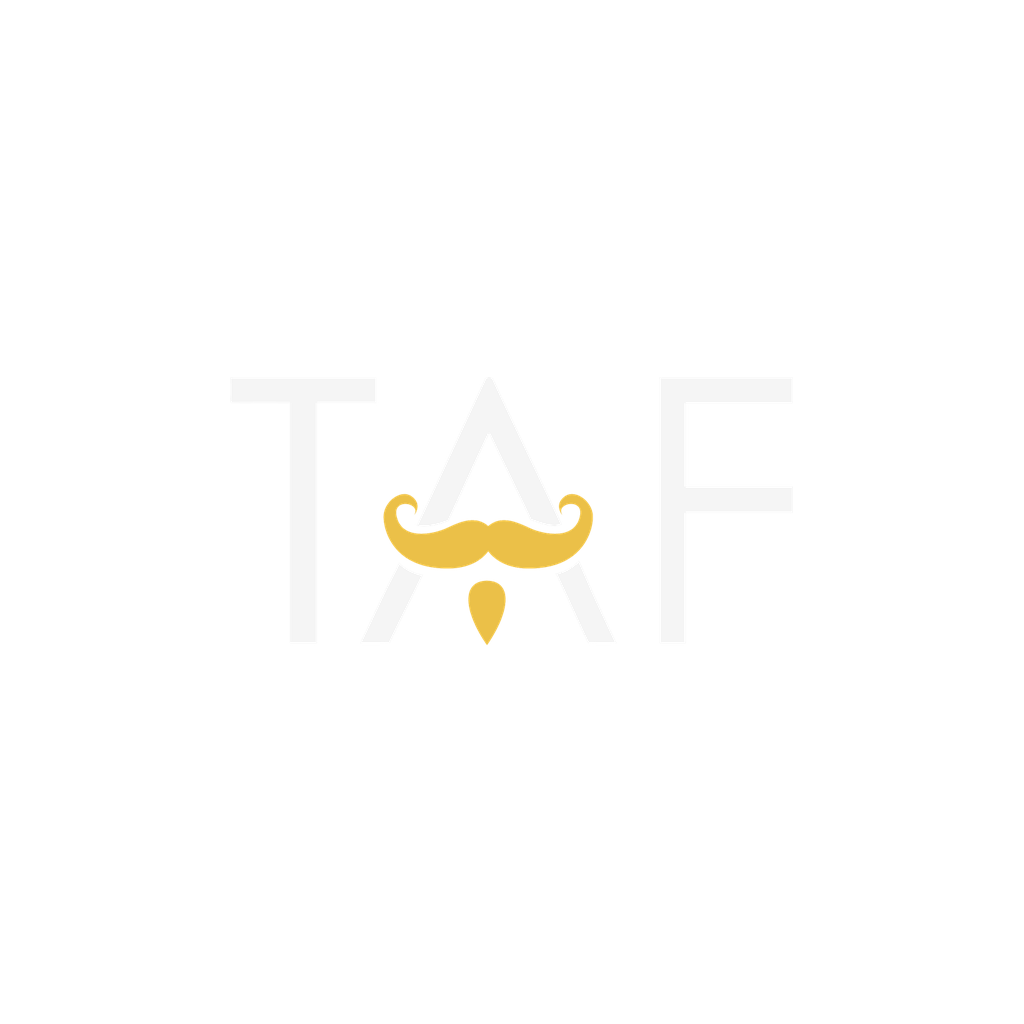
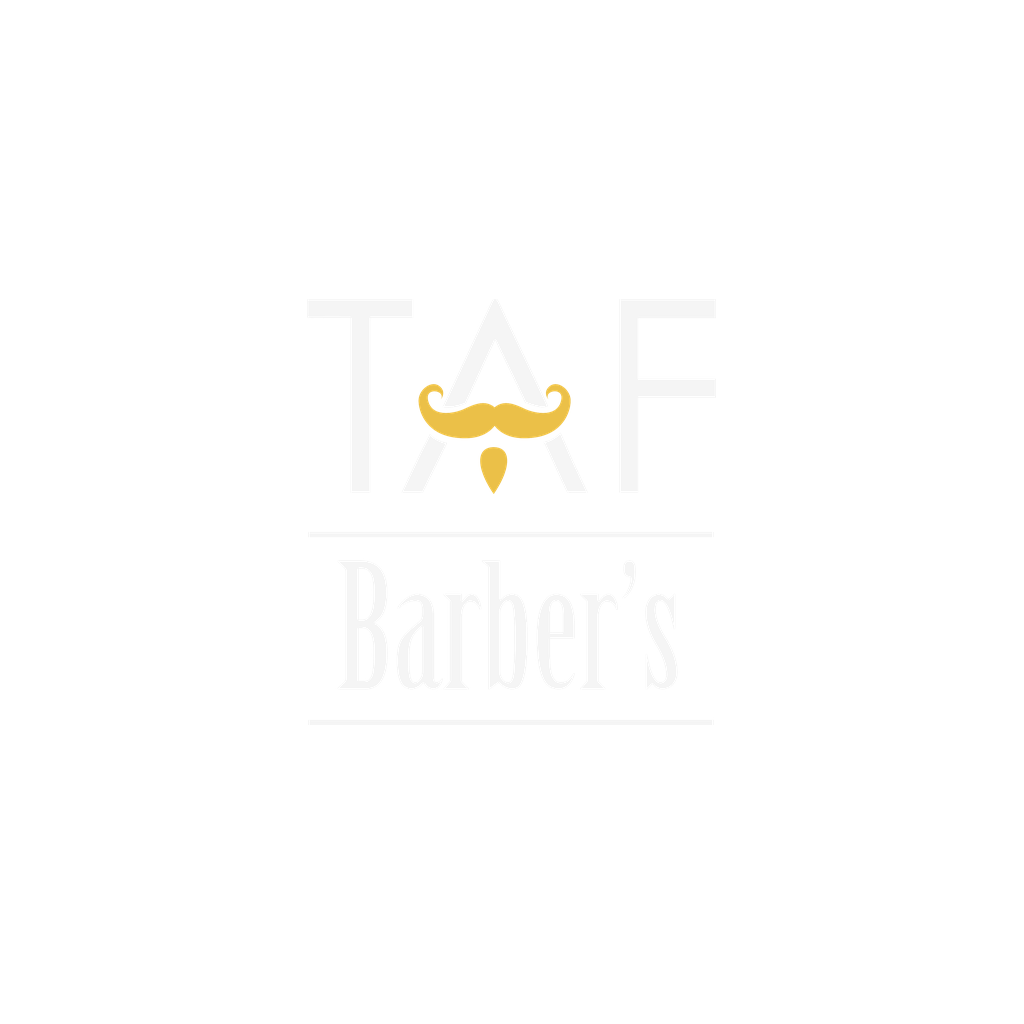
Iconița veche „TAF Barber's” înapoi; panoul pornește actualizarea pe platforma aleasă (#23)
* Intrare în cont: buton Înapoi și e-mail care se poate schimba

- Ecranele „Intră în cont” (client și frizer) se deschid ca fereastră și n-aveau săgeată de întoarcere pe iPhone; acum au „Înapoi” în colț.
- După Apple / Google, e-mailul rămânea blocat (gri) și pe tabul „Intră în cont”, unde contul existent poate avea alt e-mail. Acum se poate scrie, iar „Folosește alt e-mail” renunță la Apple / Google și golește câmpul.

Claude-Session: https://claude.ai/code/session_01JSi3D7Wo6n2Sjs41SxLpE1

* Intrare în cont: cod pe e-mail sau SMS pentru cine n-are parolă; număr existent cu alt e-mail nu mai blochează

- Pe „Intră în cont” apare „Nu ai parolă? Intră cu un cod pe e-mail sau prin SMS” (și înapoi „Intră cu parola”).
- „Creează cont” cu un număr care are deja cont: codul trimis nu se mai aruncă, clientul intră direct cu el.
- Număr existent cu alt e-mail: clientul trece pe intrarea cu cod, cu mesaj clar (e-mailul contului sau SMS).

Claude-Session: https://claude.ai/code/session_01JSi3D7Wo6n2Sjs41SxLpE1

* Iconița aplicației revine la cea veche „TAF Barber's”; intro-ul rămâne cel nou

Decizia lui florin (2 nov.): TAF + mustața doar la intro, nu ca iconiță.
Revin doar assets/icon.png și iconițele Android (foreground, monocromă) la versiunea dinainte de #10.

Claude-Session: https://claude.ai/code/session_01JSi3D7Wo6n2Sjs41SxLpE1

* Panou → Aplicații: „Actualizați aplicația” pornește pe platforma butonului apăsat
[…]

Changed region(s): [[0.375, 0.375, 0.5938, 0.625]]

diff --git a/admin/src/pages/Apps.tsx b/admin/src/pages/Apps.tsx
@@ -234,7 +234,8 @@ function StoreCard(p: {
 }
 
 function UpdateModal({ d, platform, onClose, onDone }: { d: AppsData; platform: 'ios' | 'android'; onClose: () => void; onDone: () => void }) {
-  const [where, setWhere] = useState<'all' | 'ios' | 'android'>(d.connections.google || d.connections.apple ? 'all' : platform);
+  // Pornește pe platforma butonului apăsat (iOS sau Android); „iPhone și Android” se alege doar din listă.
+  const [where, setWhere] = useState<'all' | 'ios' | 'android'>(platform);
   const [version, setVersion] = useState(nextVersion(d));
   const [whatsNew, setWhatsNew] = useState('');
   const { busy, error, run } = useAction();
